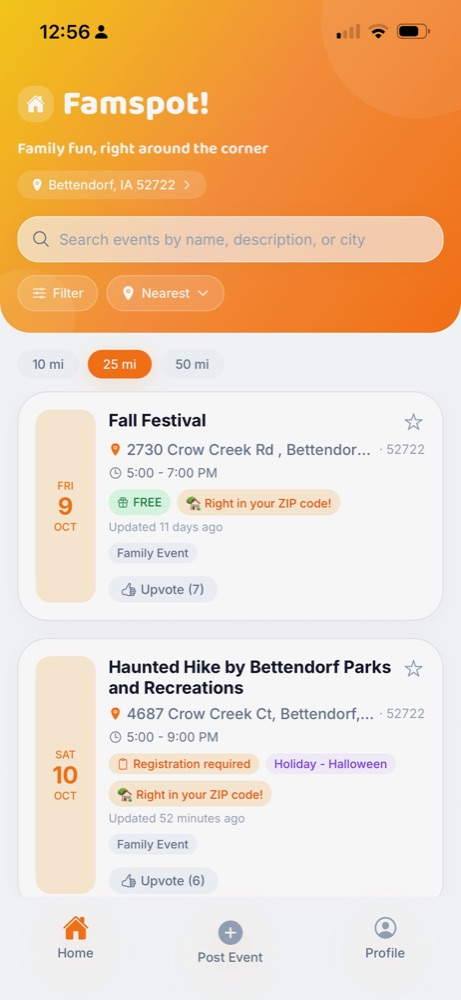
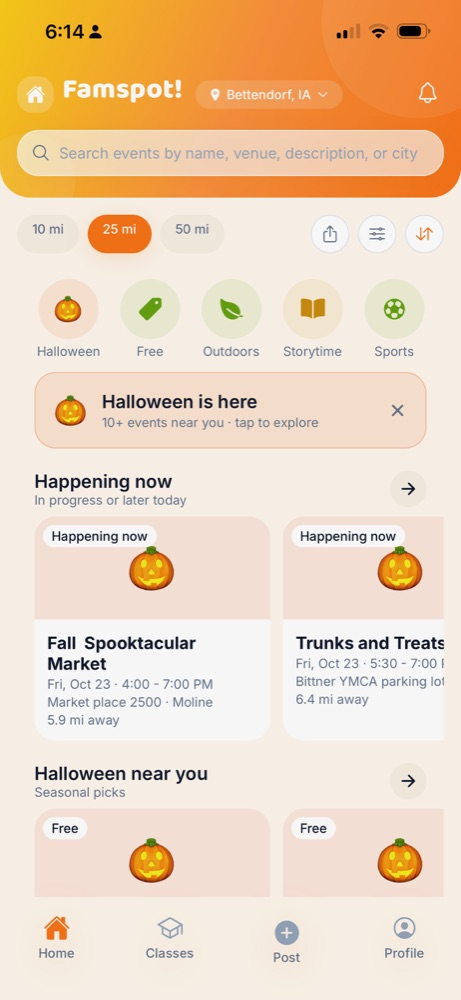
Refresh screenshots and add 1.0.5 feature copy

diff --git a/index.html b/index.html
@@ -217,7 +217,8 @@
       <div class="shot-row" style="margin-top:36px">
         <figure><img src="img/zip.jpg" alt="Onboarding screen asking for a ZIP code" loading="lazy" width="220" height="477" /><figcaption>Start with your ZIP</figcaption></figure>
         <figure><img src="img/feed.jpg" alt="Event feed with nearby family events" loading="lazy" width="220" height="477" /><figcaption>Browse nearby events</figcaption></figure>
-        <figure><img src="img/classes.jpg" alt="Classes tab listing kids' classes" loading="lazy" width="220" height="477" /><figcaption>Discover classes</figcaption></figure>
+        <figure><img src="img/detail.jpg" alt="Event details with weather forecast, directions and I'm going button" loading="lazy" width="220" height="477" /><figcaption>See details &amp; forecast</figcaption></figure>
+        <figure><img src="img/classes.jpg" alt="Class details with schedule, age range and registration link" loading="lazy" width="220" height="477" /><figcaption>Discover classes</figcaption></figure>
         <figure><img src="img/post.jpg" alt="Post an event form" loading="lazy" width="220" height="477" /><figcaption>Post your own event</figcaption></figure>
       </div>
     </div>
@@ -232,6 +233,9 @@
         <div class="card"><div class="ico" aria-hidden="true">📬</div><h3>Weekly &amp; mid-week summaries</h3><p>Get a friendly roundup of new events near you. Choose what you receive, or turn it off, in Profile → Notifications.</p></div>
         <div class="card"><div class="ico" aria-hidden="true">🔎</div><h3>Saved searches with alerts</h3><p>Save the filters you use most and we'll let you know when something new matches.</p></div>
         <div class="card"><div class="ico" aria-hidden="true">📝</div><h3>Save as draft for hosts</h3><p>Start posting an event now and finish later. Drafts are only visible to you until you post.</p></div>
+        <div class="card"><div class="ico" aria-hidden="true">🌤</div><h3>Weather at a glance</h3><p>Outdoor event coming up? See the forecast right on the event page, so you can plan for rain or shine.</p></div>
+        <div class="card"><div class="ico" aria-hidden="true">✨</div><h3>Curated discovery rows</h3><p>Happening now, seasonal picks like Halloween, free events and more, all in easy swipe rows on your home screen.</p></div>
+        <div class="card"><div class="ico" aria-hidden="true">⭐</div><h3>Follow your favorite hosts</h3><p>Follow hosts and venues you love and hear when they post something new.</p></div>
         <div class="card"><div class="ico" aria-hidden="true">🙋</div><h3>“I'm going” RSVP</h3><p>Tap once to say you're going and keep track of your plans. Hosts only see a count, never your name.</p></div>
       </div>
     </div>
